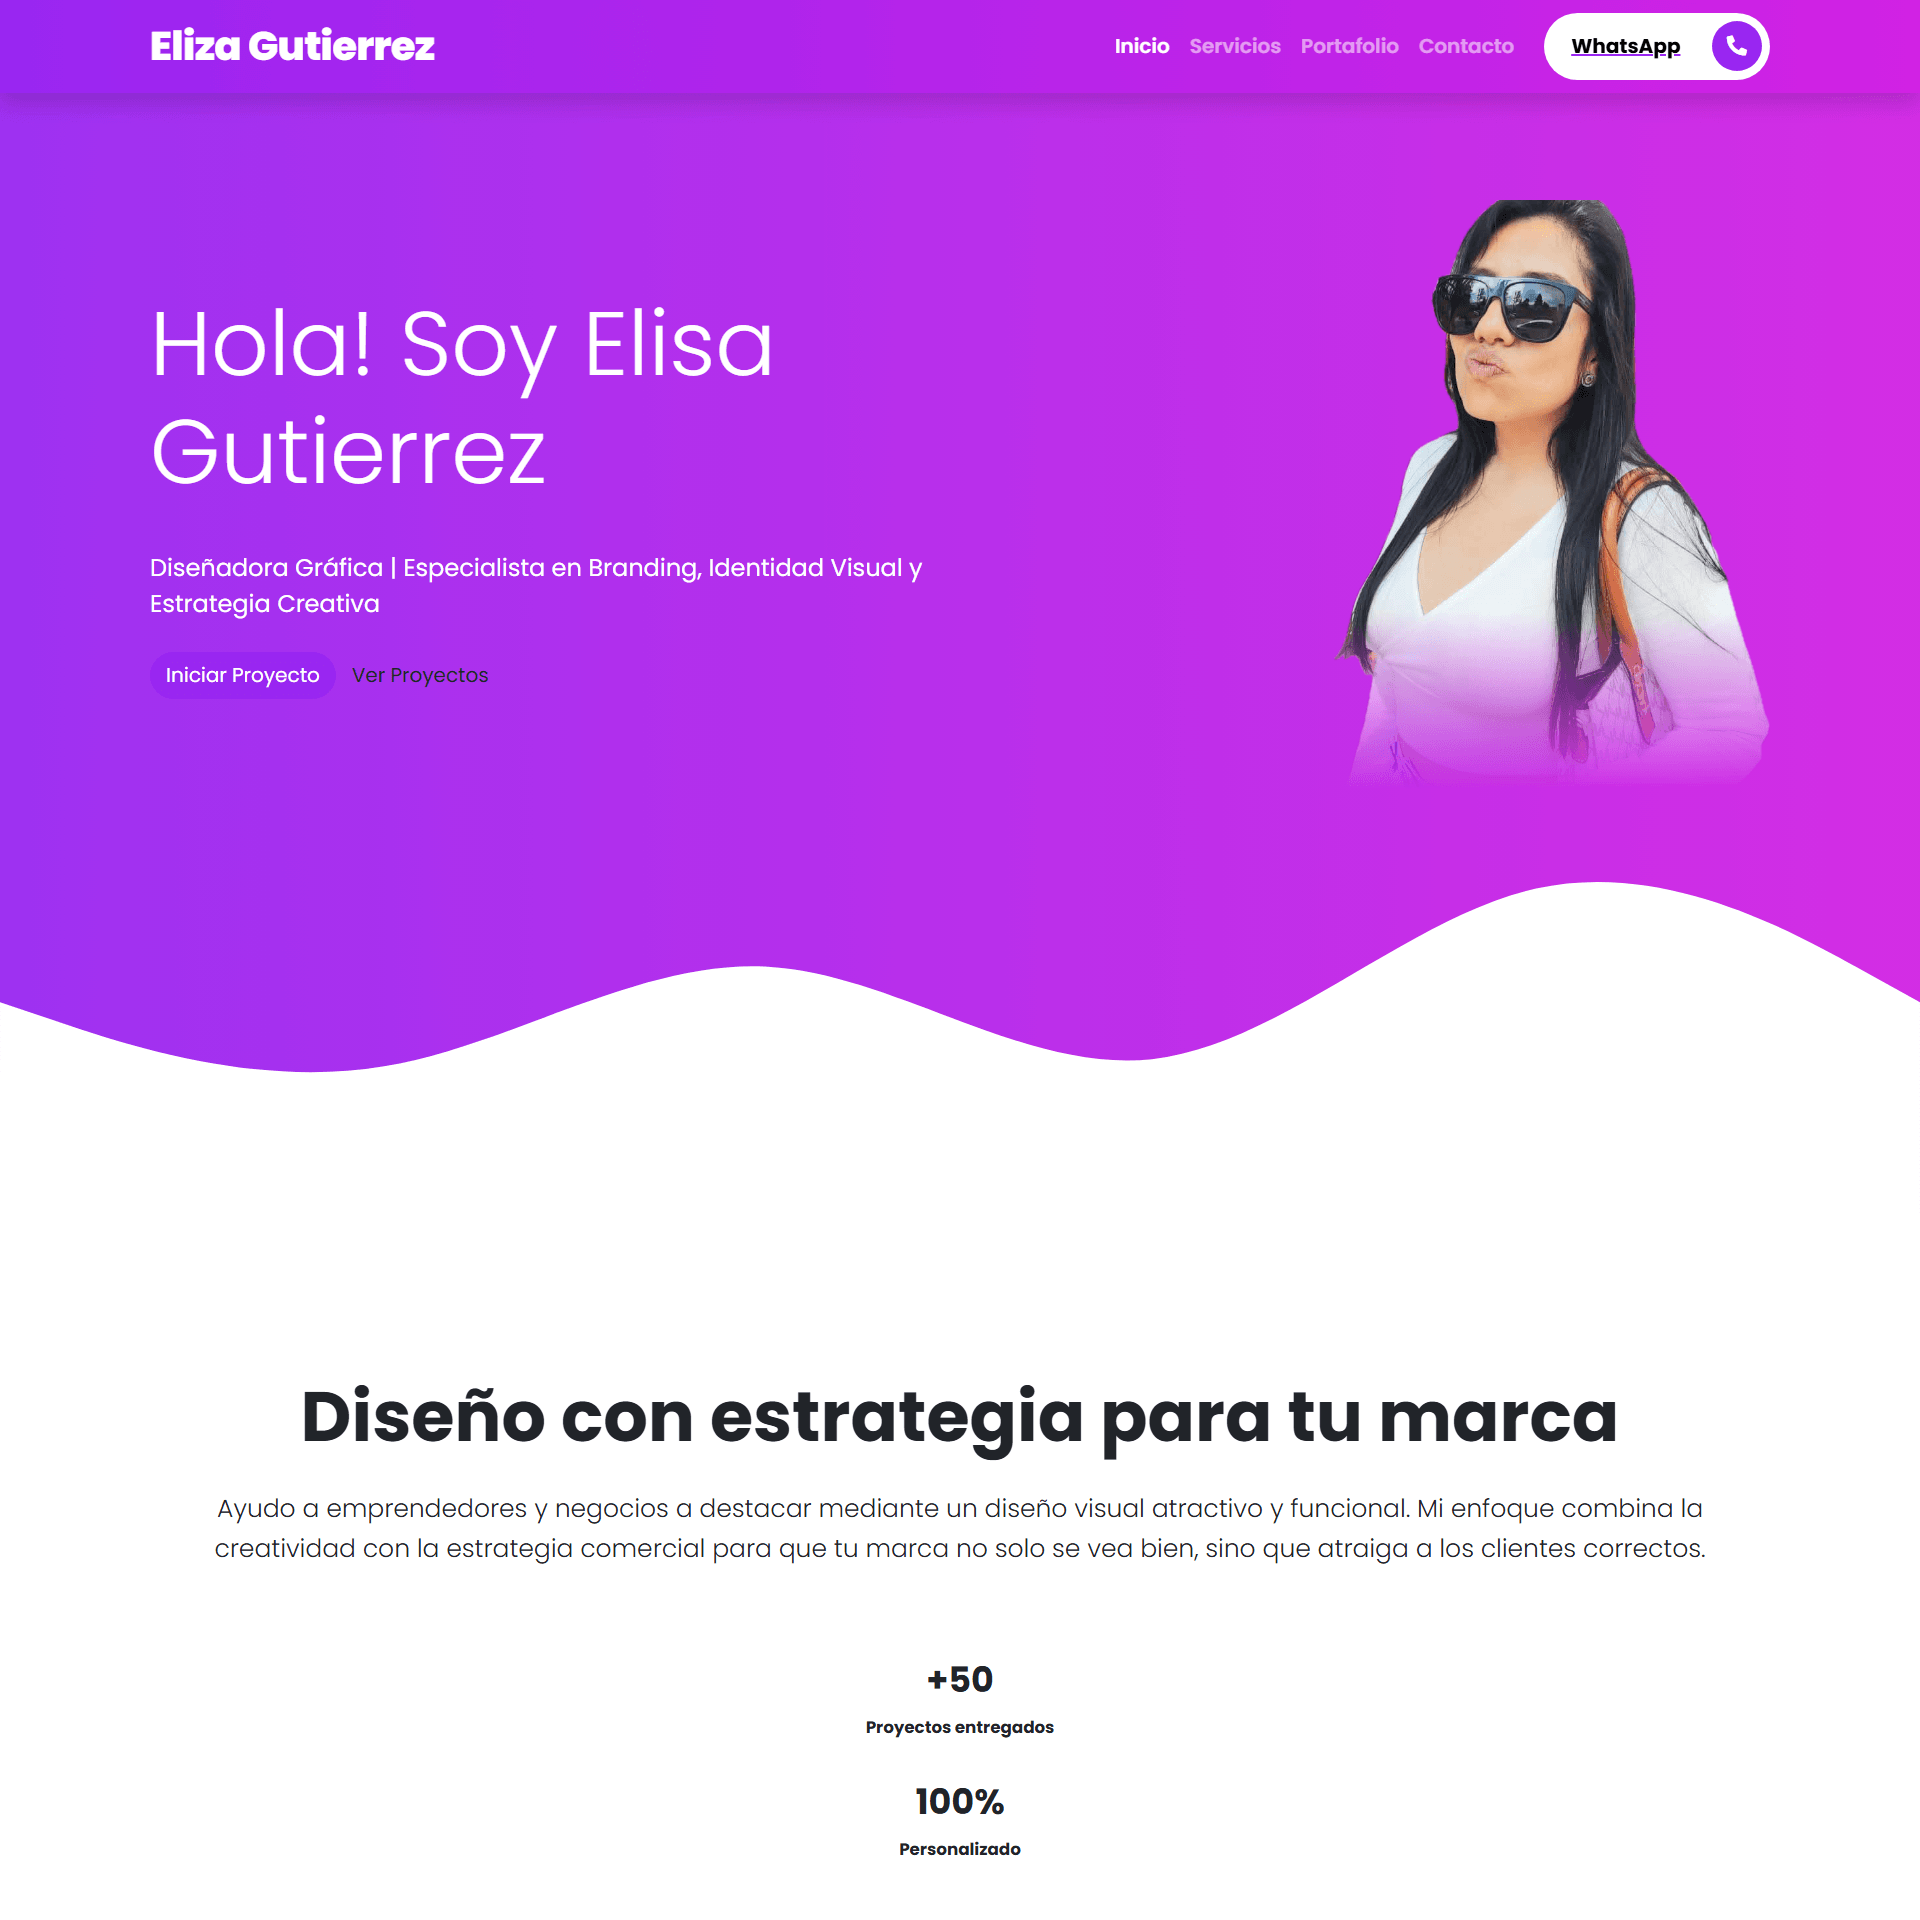
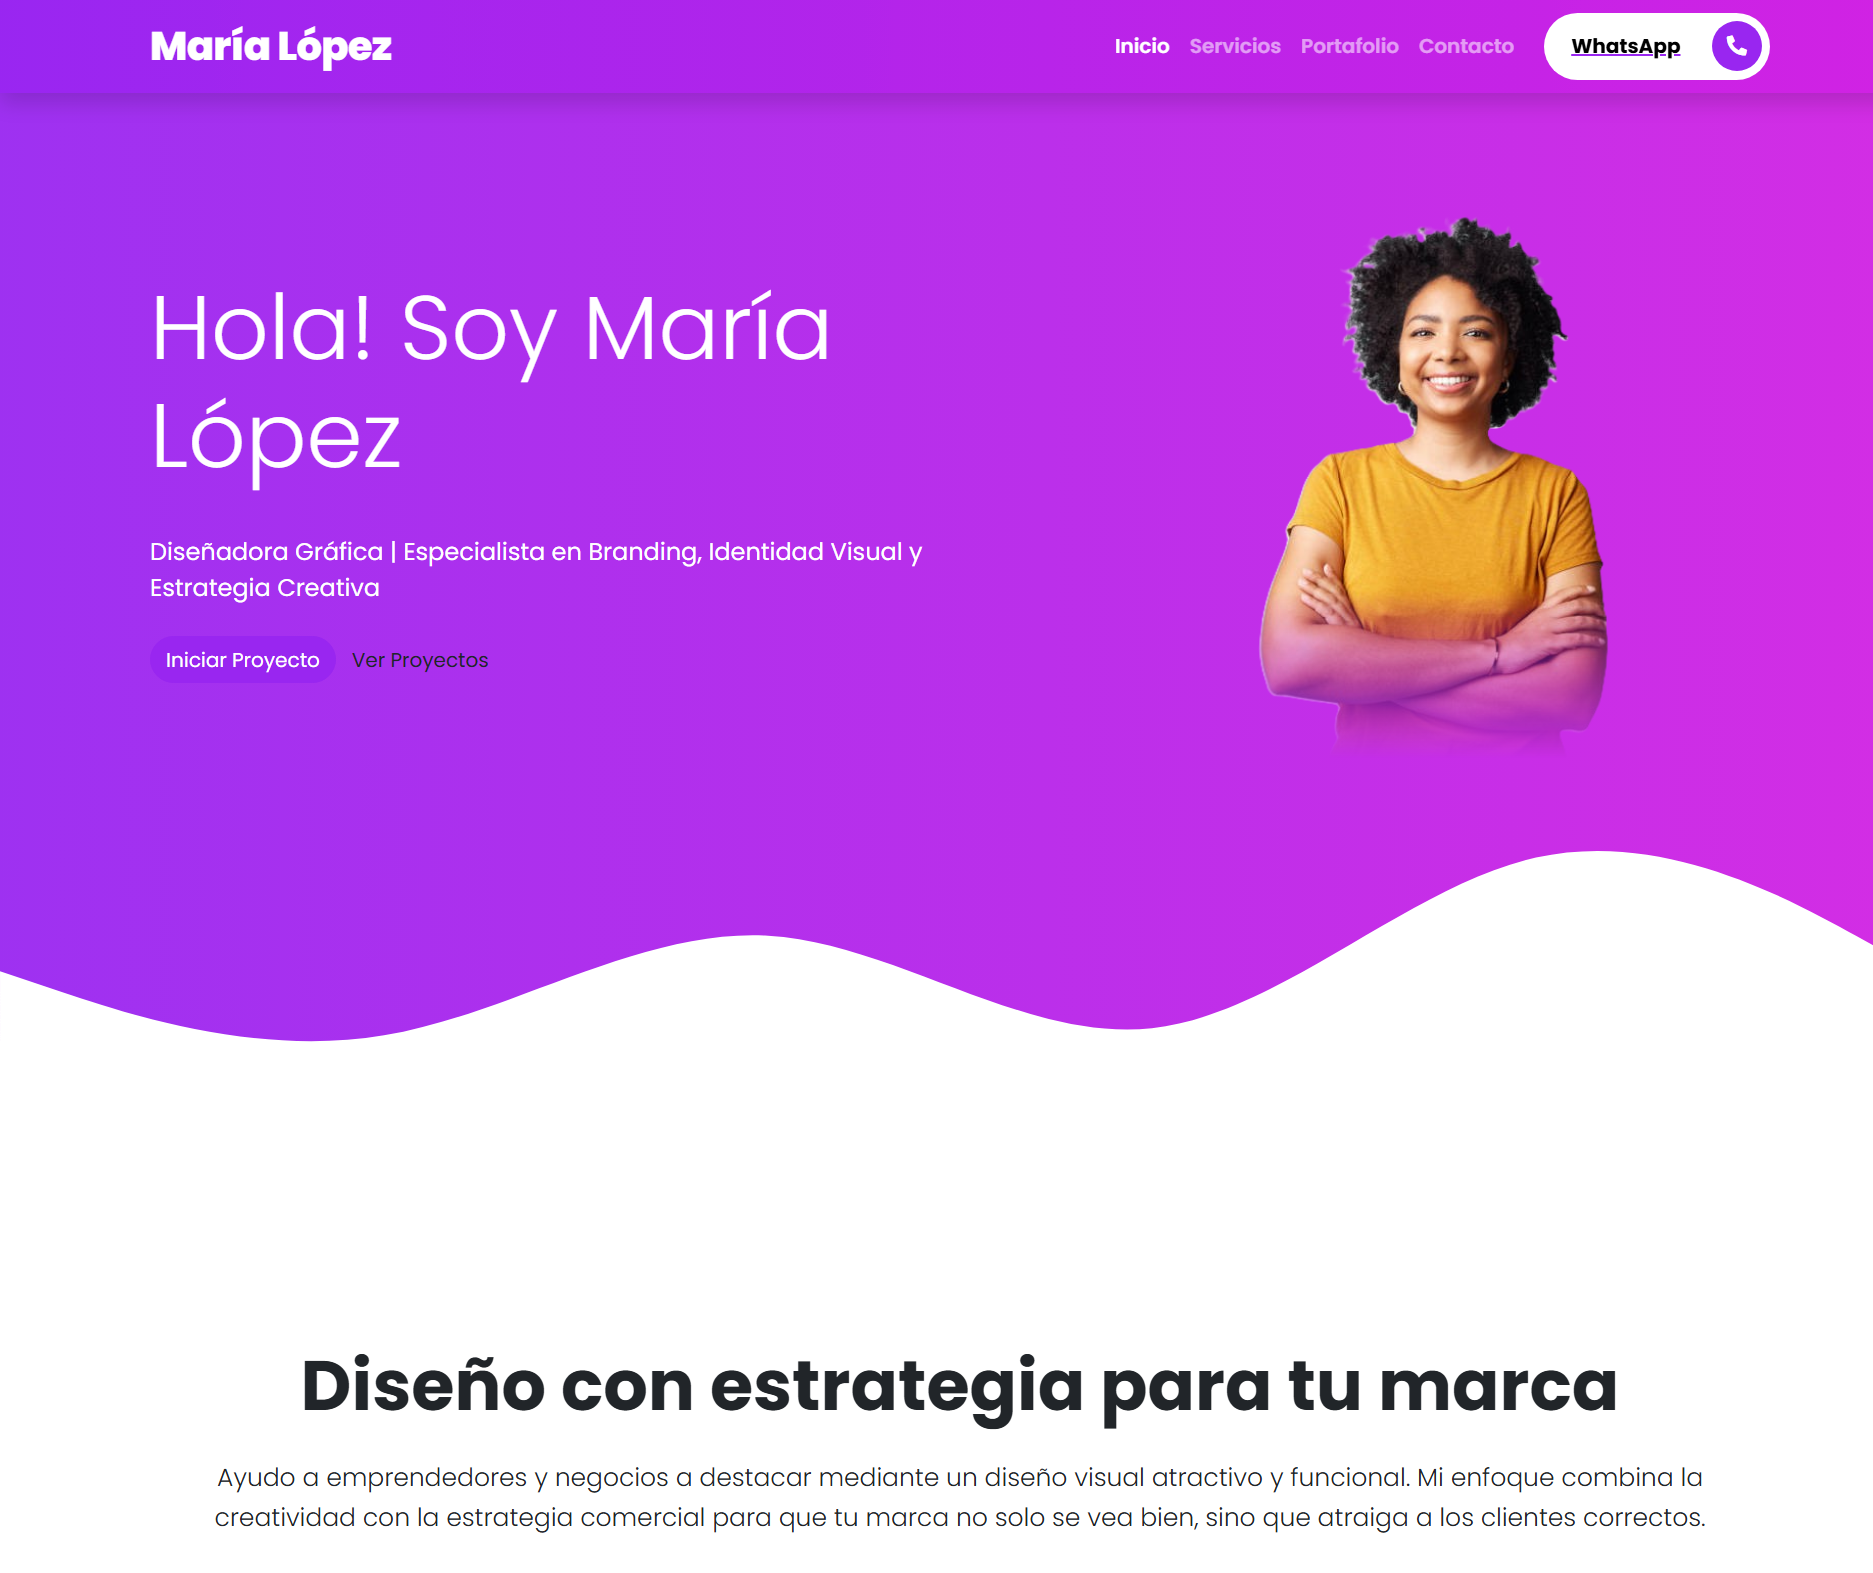
actualización del portafolio

diff --git a/portafolio.html b/portafolio.html
@@ -298,22 +298,22 @@
             </div>
           </div>
 
-          <!-- 4: Sunset & Sea (Tarjeta Digital) -->
+          <!-- 4: Sergia Torres (TARJETA DIGITAL) -->
           <div
             class="pf-card reveal"
             data-category="tarjeta"
-            data-name="tarjeta digital renta departamentos mazatlan sunset sea vacaciones"
+            data-name="tarjeta digital renta de cabañas en San Cristóbal de las Casas, Chiapas"
           >
             <div class="pf-img-wrap">
               <img
-                src="assets/img/sunsetandsea-td.webp"
-                alt="Sunset &amp; Sea – Tarjeta Digital"
+                src="assets/img/sergiat.png"
+                alt="Sergia Torres Cabañas – Tarjeta Digital"
                 class="pf-img"
                 onerror="this.style.display = 'none'"
               />
               <div class="pf-overlay">
                 <a
-                  href="https://tarjeta.rentamazatlan.com/"
+                  href="https://pablo-webdev.github.io/sergiatorres/"
                   class="pf-view-btn"
                   target="_blank"
                   rel="noopener"
@@ -323,30 +323,30 @@
             </div>
             <div class="pf-body">
               <span class="pf-tag pf-tag-tarjeta">Tarjeta Digital</span>
-              <h3 class="pf-title">Sunset &amp; Sea</h3>
+              <h3 class="pf-title">Cabañas Sergia Torres</h3>
               <p class="pf-desc">
-                Tarjeta digital para renta de departamentos vacacionales en
-                Mazatlán, diseño elegante y atractivo.
+                Tarjeta digital para renta de cabañas en SCLC - Chiapas, con
+                diseño optimizado para atraer propectos al sitio web principal.
               </p>
             </div>
           </div>
 
-          <!-- 5: The Jerseys World -->
+          <!-- 5: GRUPO FORTA -->
           <div
             class="pf-card reveal"
             data-category="ecommerce"
-            data-name="jerseys futbol tienda ropa deporte bilingue"
+            data-name="Sitio de insumos industriales para grupo ferretero"
           >
             <div class="pf-img-wrap">
               <img
-                src="assets/img/thejerseysworld.webp"
-                alt="The Jerseys World"
+                src="assets/img/forta.png"
+                alt="Grupo Forta"
                 class="pf-img"
                 onerror="this.style.display = 'none'"
               />
               <div class="pf-overlay">
                 <a
-                  href="https://thejerseysworld.com/"
+                  href="https://pablo-webdev.github.io/Grupo-Forta-Chiapas/"
                   class="pf-view-btn"
                   target="_blank"
                   rel="noopener"
@@ -356,43 +356,10 @@
             </div>
             <div class="pf-body">
               <span class="pf-tag pf-tag-ecommerce">E-Commerce</span>
-              <h3 class="pf-title">The Jerseys World</h3>
+              <h3 class="pf-title">Grupo Forta</h3>
               <p class="pf-desc">
-                Tienda en línea bilingüe con más de 3,000 jerseys de fútbol,
-                diseño moderno en blanco y rojo.
-              </p>
-            </div>
-          </div>
-
-          <!-- 6: Certum -->
-          <div
-            class="pf-card reveal"
-            data-category="ecommerce"
-            data-name="cursos certificaciones capacitacion empresas certum"
-          >
-            <div class="pf-img-wrap">
-              <img
-                src="assets/img/certum.webp"
-                alt="Certum"
-                class="pf-img"
-                onerror="this.style.display = 'none'"
-              />
-              <div class="pf-overlay">
-                <a
-                  href="https://grupocertum.com/"
-                  class="pf-view-btn"
-                  target="_blank"
-                  rel="noopener"
-                  >Ver sitio <i class="fas fa-arrow-up-right-from-square"></i
-                ></a>
-              </div>
-            </div>
-            <div class="pf-body">
-              <span class="pf-tag pf-tag-ecommerce">Catálogo</span>
-              <h3 class="pf-title">Certum</h3>
-              <p class="pf-desc">
-                Catálogo de cursos con certificaciones para empresas, desde
-                seguridad privada hasta recursos humanos.
+                Catálogo en línea ampliable con insumos industriales, diseño
+                moderno en blanco y colores de marca.
               </p>
             </div>
           </div>
@@ -549,22 +516,22 @@
             </div>
           </div>
 
-          <!-- 11: LDR Global Trade (Tarjeta) -->
+          <!-- 11: IMDSUR (Tarjeta) -->
           <div
             class="pf-card reveal"
             data-category="tarjeta"
-            data-name="tarjeta digital corporativa ldr soluciones empresas"
+            data-name="tarjeta digital corporativa IMDSUR insumos médicos"
           >
             <div class="pf-img-wrap">
               <img
-                src="assets/img/ldrglobal-td.webp"
-                alt="LDR Global Trade – Tarjeta Digital"
+                src="assets/img/imdsur.png"
+                alt="Mockup de tarjeta de presentación digital responsiva para la empresa IMDSUR mostrada en la pantalla de un celular."
                 class="pf-img"
                 onerror="this.style.display = 'none'"
               />
               <div class="pf-overlay">
                 <a
-                  href="https://tarjeta.ldrglobal.com.mx/"
+                  href="https://pablo-webdev.github.io/IMDSUR/"
                   class="pf-view-btn"
                   target="_blank"
                   rel="noopener"
@@ -574,15 +541,18 @@
             </div>
             <div class="pf-body">
               <span class="pf-tag pf-tag-tarjeta">Tarjeta Digital</span>
-              <h3 class="pf-title">LDR Global Trade</h3>
+              <h3 class="pf-title">IMDSUR</h3>
               <p class="pf-desc">
-                Tarjeta digital corporativa para empresa de soluciones
-                empresariales, diseño elegante y profesional.
+                Desarrollo de una tarjeta de presentación web responsiva y ultra
+                rápida creada con HTML, CSS y JS. Diseñada para optimizar la
+                captación de clientes mediante la descarga nativa de contacto
+                (vCard), integración directa con WhatsApp y geolocalización.
+                Ideal como herramienta de networking móvil.
               </p>
             </div>
           </div>
 
-          <!-- 13: Armonizando T -->
+          <!-- 13: Armonizando T 
           <div
             class="pf-card reveal"
             data-category="ecommerce"
@@ -613,7 +583,7 @@
                 sitio, diseño reconfortante y cálido.
               </p>
             </div>
-          </div>
+          </div> -->
 
           <!-- 17: Dj, luz y sonido -->
           <div
@@ -648,7 +618,7 @@
             </div>
           </div>
 
-          <!-- 14: Spy Portech -->
+          <!-- 14: Spy Portech 
           <div
             class="pf-card pf-card-wide reveal"
             data-category="ecommerce"
@@ -693,9 +663,9 @@
                 Ver sitio <i class="fas fa-arrow-up-right-from-square"></i>
               </a>
             </div>
-          </div>
+          </div>-->
 
-          <!-- 15: Quien Pongo Mi Mesa? -->
+          <!-- 15: Quien Pongo Mi Mesa? 
           <div
             class="pf-card reveal"
             data-category="ecommerce"
@@ -726,7 +696,7 @@
                 estética divertida y muy colorida.
               </p>
             </div>
-          </div>
+          </div>-->
 
           <!-- 16: VIAJES -->
           <div

diff --git a/index.html b/index.html
@@ -281,7 +281,7 @@
       <div class="img-marquee">
         <div class="img-marquee-track">
           <a
-            href="https://pablo-webdev.github.io/defensalegal/servicios.html"
+            href="https://pablo-webdev.github.io/legalesclc/index.html"
             class="im-item"
             target="_blank"
             rel="noopener"
@@ -292,9 +292,7 @@
             class="im-item"
             target="_blank"
             rel="noopener"
-            ><img
-              src="assets/img/forta.png"
-              alt="Grupo Forta Chiapas"
+            ><img src="assets/img/forta.png" alt="Grupo Forta Chiapas"
           /></a>
           <a
             href="https://pablo-webdev.github.io/political-master/"
@@ -334,9 +332,7 @@
             class="im-item"
             target="_blank"
             rel="noopener"
-            ><img
-              src="assets/img/forta.png"
-              alt="Grupo Forta Chiapas"
+            ><img src="assets/img/forta.png" alt="Grupo Forta Chiapas"
           /></a>
           <a
             href="https://pablo-webdev.github.io/political-master/"
